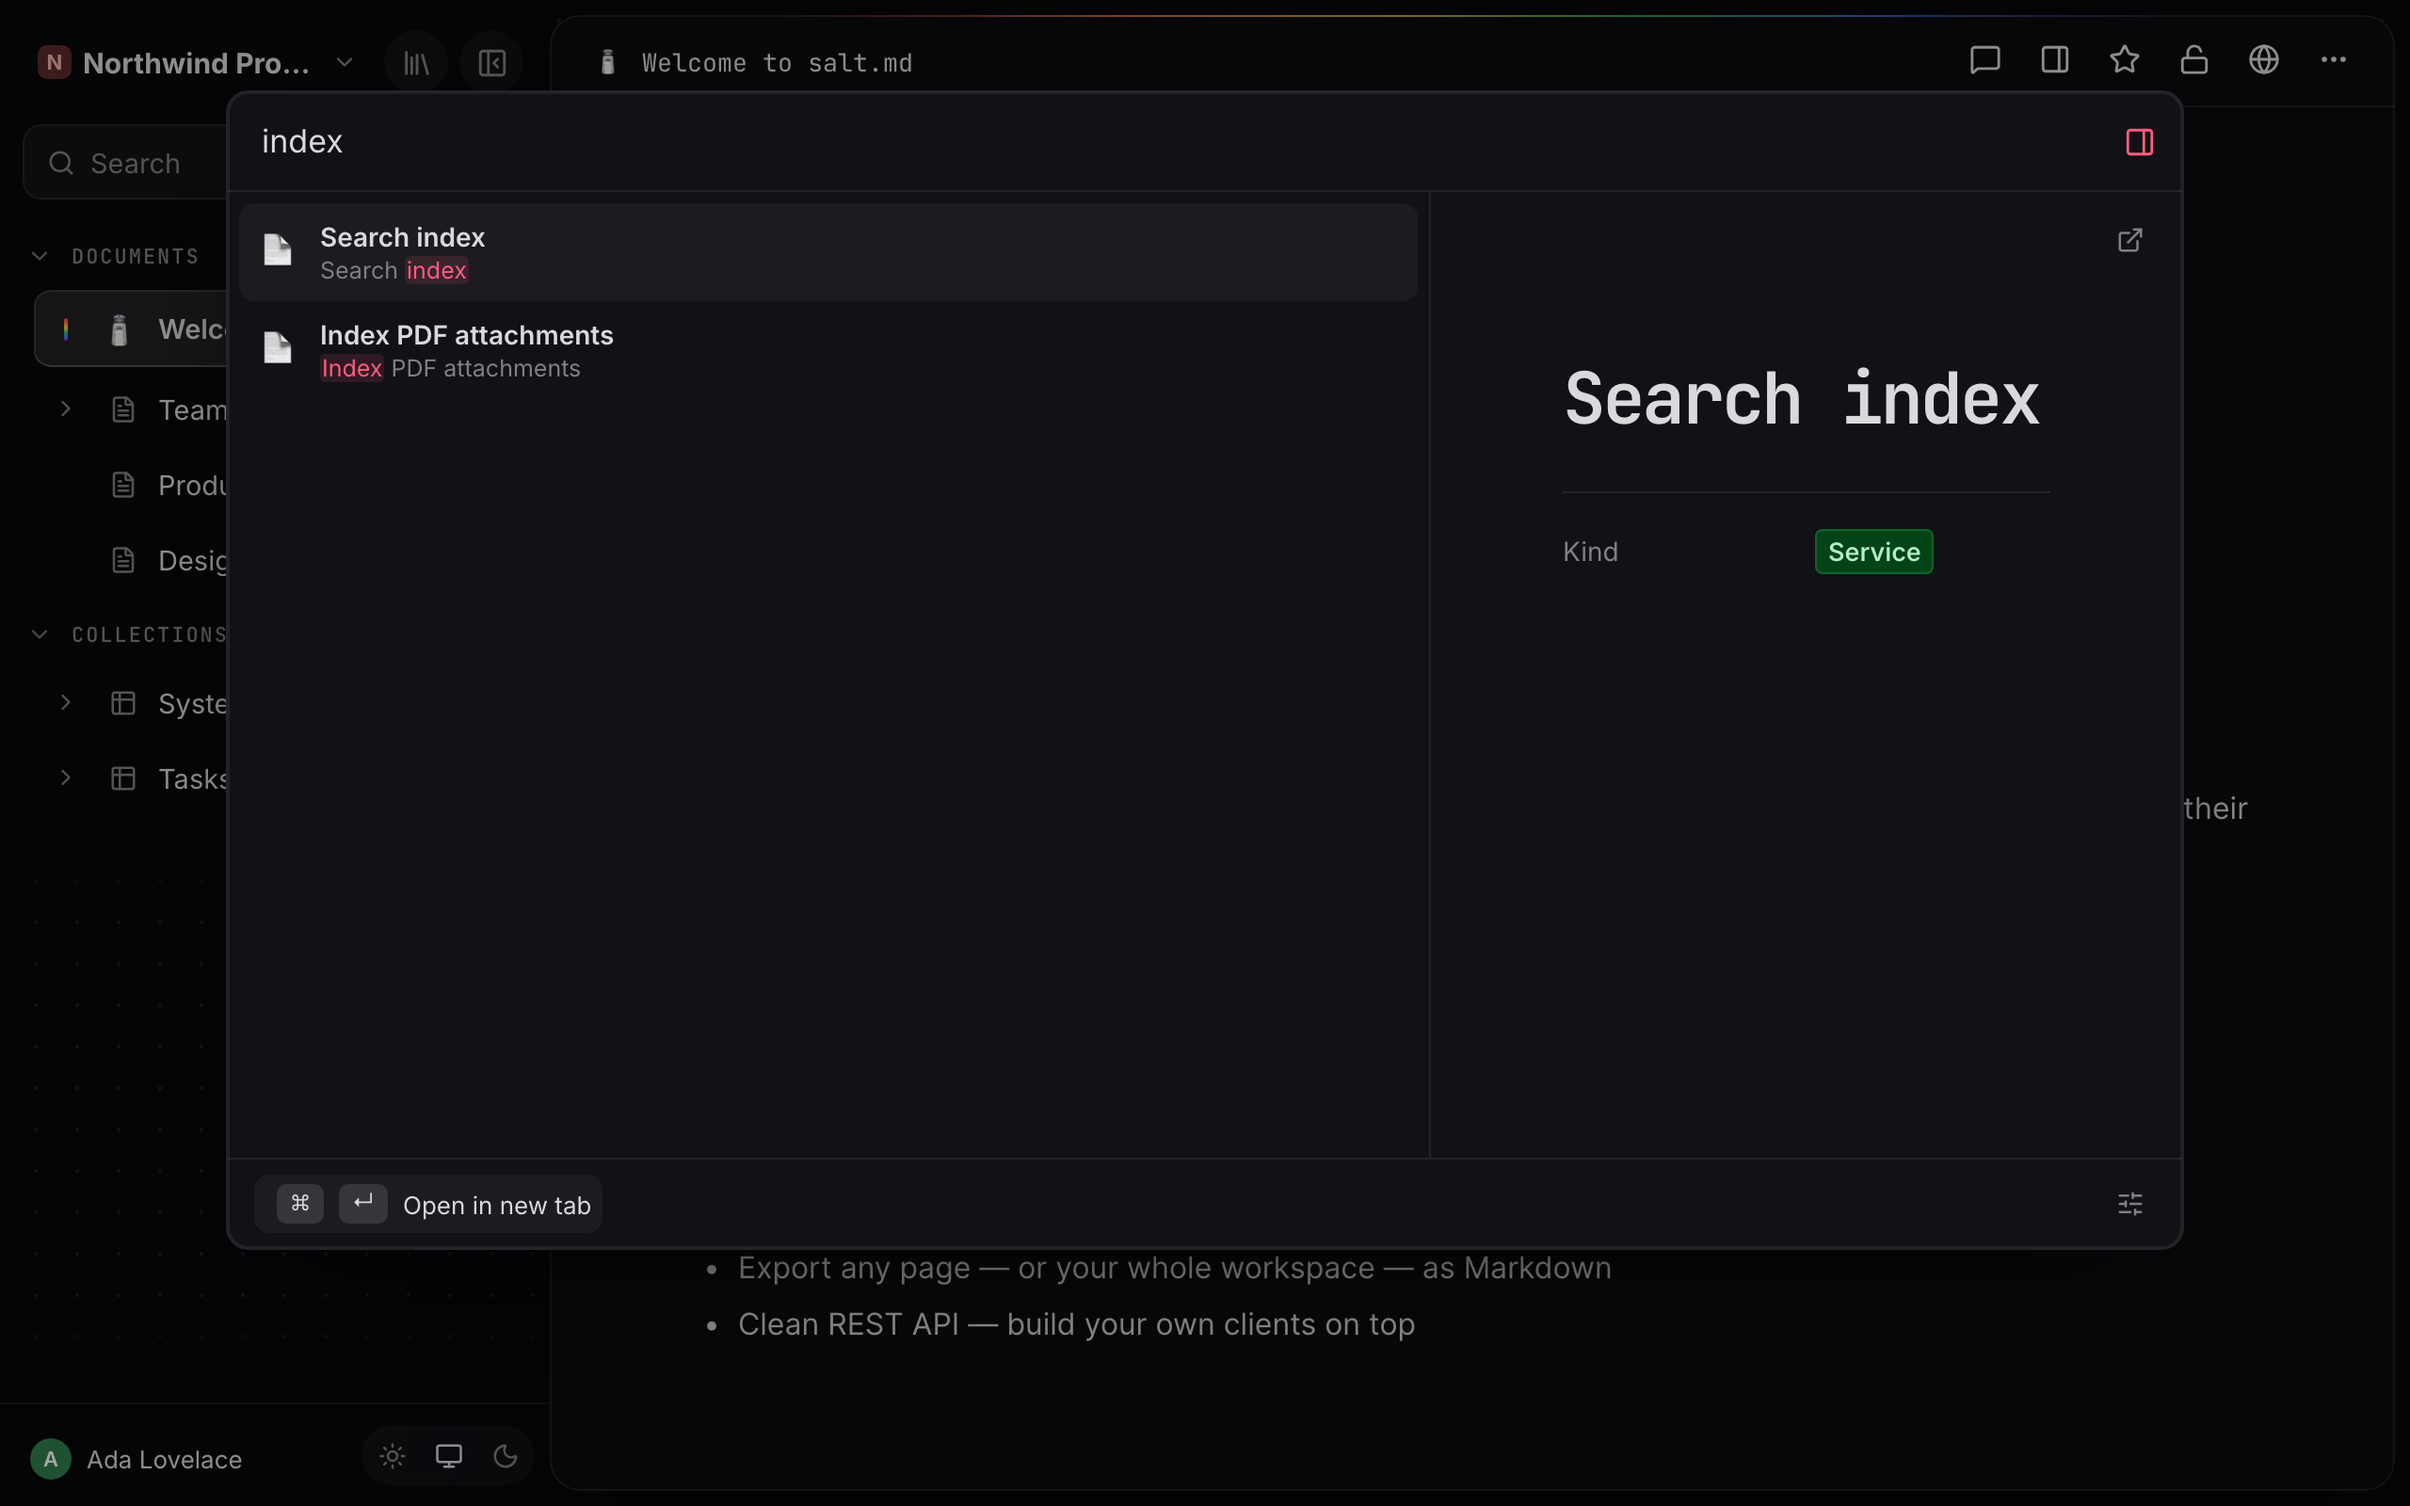
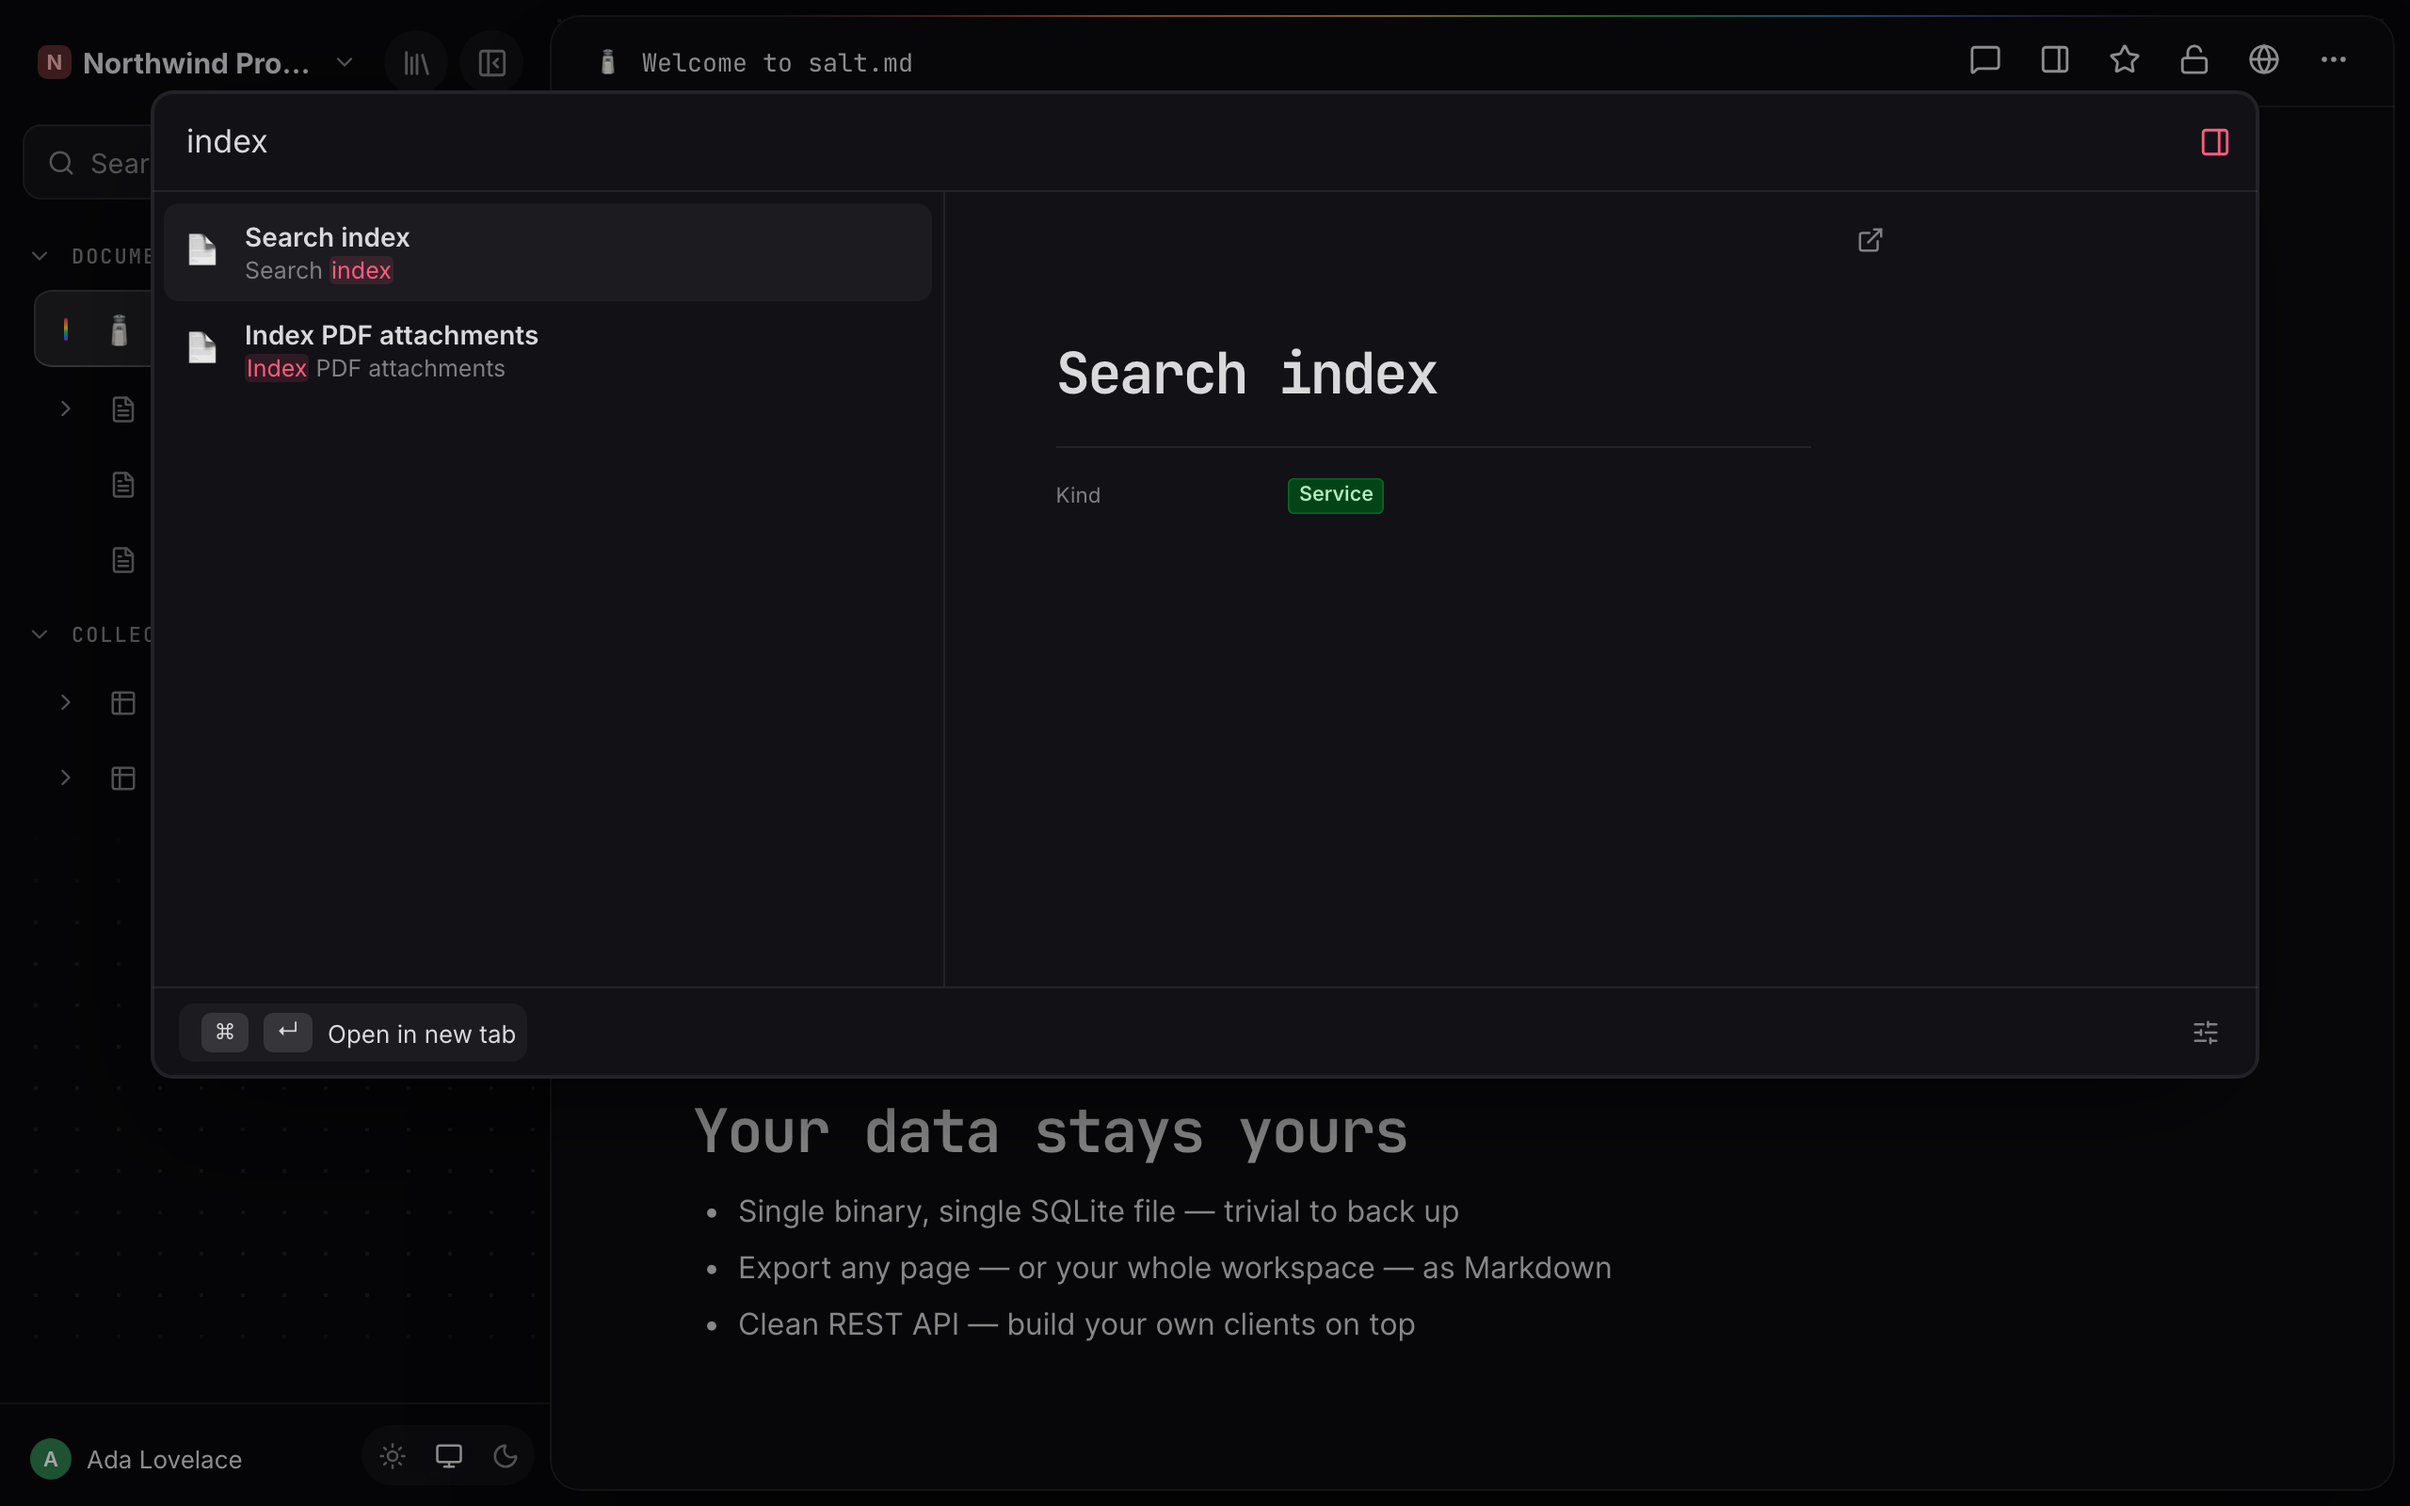
Search preview: miniature rendering, wider pane
- Preview editor renders at zoom 0.8: overview, not a second page.
- Wider preview (520px), narrower results (420px), modal to 1120px.

diff --git a/web/src/styles.css b/web/src/styles.css
@@ -1683,7 +1683,7 @@ body:has(.icon-picker) .bn-side-menu {
 }
 
 .search-modal.has-preview {
-  width: min(1040px, 96vw);
+  width: min(1120px, 96vw);
 }
 
 .search-body {
@@ -1915,12 +1915,12 @@ body:has(.icon-picker) .bn-side-menu {
    exactly like the page — a click on plain content opens it (see openPreview),
    while the editor's own controls and links answer for themselves. */
 .search-main {
-  flex: 1;
+  flex: 0 1 420px;
   min-width: 0;
 }
 
 .search-preview {
-  width: 400px;
+  width: 520px;
   flex-shrink: 0;
   border-left: 1px solid var(--border);
   padding: 12px 14px 18px;
@@ -1937,10 +1937,14 @@ body:has(.icon-picker) .bn-side-menu {
 
 /* The editor root clips to its own height by default (see .editor-page), so
    without this the pane would show exactly one screen of a long page and no
-   scroll. Unset, the editor grows naturally and the pane scrolls it. */
+   scroll. Unset, the editor grows naturally and the pane scrolls it.
+   Miniature rendering on top: the preview reads as an overview, not a second
+   full page. zoom (not transform: scale) keeps layout, scroll and pointer
+   coordinates consistent — the pane still scrolls the scaled content. */
 .search-preview-body > .editor-page {
   height: auto;
   overflow: visible;
+  zoom: 0.8;
 }
 
 .search-preview-head {
